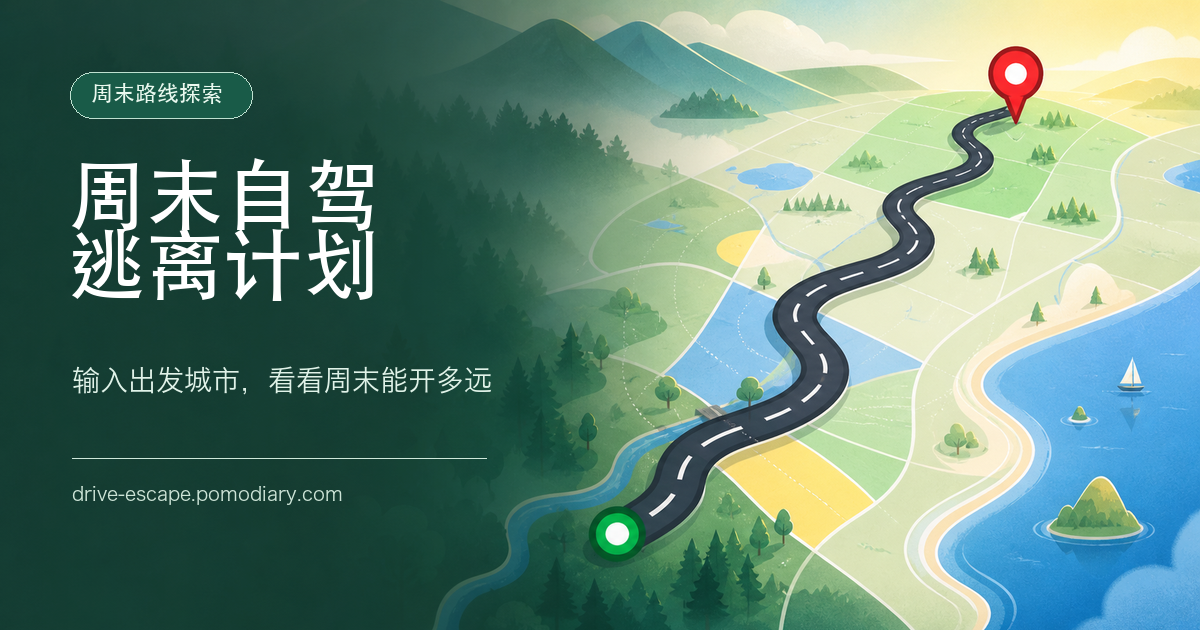
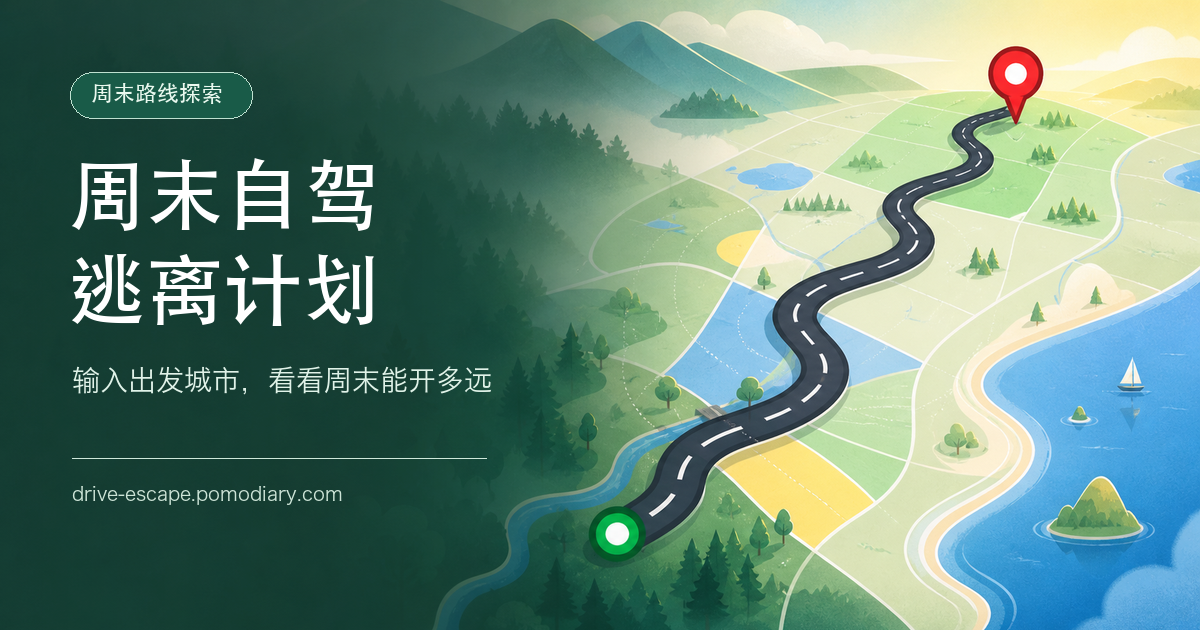
fix: improve social preview title spacing

Changed region(s): [[0.0617, 0.3619, 0.3083, 0.5127]]

diff --git a/scripts/make-og.py b/scripts/make-og.py
@@ -9,7 +9,7 @@ from PIL import Image, ImageDraw, ImageFont
 
 WIDTH = 1200
 HEIGHT = 630
-TITLE = "周末自驾\n逃离计划"
+TITLE_LINES = ("周末自驾", "逃离计划")
 EYEBROW = "周末路线探索"
 SUBTITLE = "输入出发城市，看看周末能开多远"
 DOMAIN = "drive-escape.pomodiary.com"
@@ -71,7 +71,18 @@ def main() -> None:
     pill_box = (70, 72, 252, 118)
     draw.rounded_rectangle(pill_box, radius=23, fill=(25, 91, 72, 255), outline=(190, 225, 208, 255), width=1)
     draw.text((91, 82), EYEBROW, font=eyebrow_font, fill=(234, 249, 239, 255))
-    draw.multiline_text((68, 154), TITLE, font=title_font, fill=(255, 255, 255, 255), spacing=2)
+    title_x = 68
+    title_y = 154
+    title_gap = 22
+    first_line_box = draw.textbbox((0, 0), TITLE_LINES[0], font=title_font)
+    title_line_height = first_line_box[3] - first_line_box[1]
+    draw.text((title_x, title_y), TITLE_LINES[0], font=title_font, fill=(255, 255, 255, 255))
+    draw.text(
+        (title_x, title_y + title_line_height + title_gap),
+        TITLE_LINES[1],
+        font=title_font,
+        fill=(255, 255, 255, 255),
+    )
     draw.text((72, 366), SUBTITLE, font=subtitle_font, fill=(224, 242, 232, 245))
     draw.line((72, 458, 486, 458), fill=(207, 232, 218, 105), width=1)
     draw.text((72, 484), DOMAIN, font=domain_font, fill=(205, 228, 215, 220))